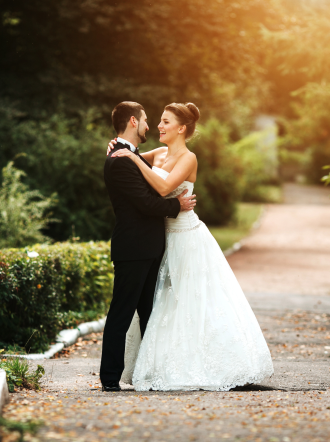
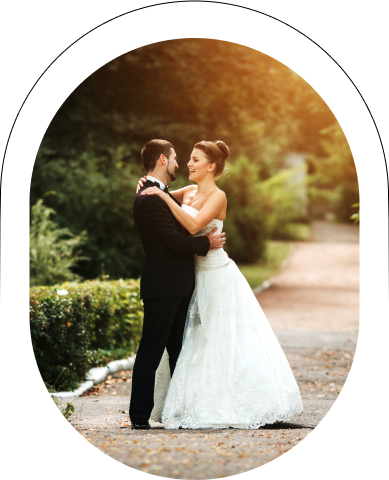
fix: image adjust for small screen

diff --git a/villa-santorini/styles.css b/villa-santorini/styles.css
@@ -127,21 +127,20 @@ div#home-collumns {
   display: flex;
   flex-direction: column;
   justify-content: space-around;
+  padding-bottom: 40px;
 }
 
 #left-bride {
-  width: 50%;
+  width: 20vh;
   border-radius: 150px 150px 0px 0px;
 }
 
 div#center-image {
-  border-top: 1px solid black;
   border-radius: 510px;
-  padding: 30px;
 }
 div#center-image > img {
   border-radius: 180px;
-  width: 100%;
+  width: 20vw;
 }
 #center {
   display: flex;
@@ -161,16 +160,14 @@ div#center-image > img {
 }
 
 h1#principal {
-  margin-top: 50px;
-  width: 100%;
-  font-size: 2.5vw;
+  font-size: 3.5vh;
   font-weight: 300;
 }
 
 #left-text {
   font-weight: 400;
   font-family: Harmattan;
-  font-size: 24px;
+  font-size: 3vh;
   font-weight: 400;
   line-height: 24px; /* 100% */
   letter-spacing: 1.2px;
@@ -184,10 +181,10 @@ div#buttons {
   border-radius: 15px;
   background: #000;
   color: white;
-  height: 50px;
+  height: fit-content;
   width: fit-content;
   padding: 10px 25px;
-  font-size: 110%;
+  font-size: 2vh;
   cursor: pointer;
   margin-bottom: 30px;
 }
@@ -207,17 +204,13 @@ div#buttons {
   position: relative;
 }
 
-#top {
-  width: 50%;
-}
-
 #top h5 {
   font-family: Roboto Flex;
   font-size: 20px;
   font-weight: 400;
   line-height: 24px;
   letter-spacing: 1px;
-  width: max-content;
+  width: fit-content;
 }
 
 #middle {
@@ -234,6 +227,10 @@ div#buttons {
   font-weight: 500;
   line-height: 24px; /* 120% */
   letter-spacing: 1px;
+}
+
+#space-villa {
+  width: 20vh;
 }
 #play-button {
   cursor: pointer;

diff --git a/villa-santorini/index.html b/villa-santorini/index.html
@@ -72,10 +72,10 @@
         <section id="right" class="tercially flex">
           <div id="top">
             <img src="img/logo-small.png" alt="logo">
-            <h5>Um casamento clássico com <br> um toque tropical no <br> Espaço Villa Santorini</h5>
+            <h5>Um casamento clássico com um toque tropical no Espaço Villa Santorini</h5>
           </div>
           <div id="middle">
-            <img src="img/espaco-vila.png" alt="espaco-vila">
+            <img src="img/espaco-vila.png" alt="espaco-vila" id="space-villa">
             <img src="img/play button.svg" alt="play" id="play-button">
             <p>Espaço Villa Santorini</p>
           </div>

diff --git a/index.html b/index.html
@@ -1,5 +1,5 @@
 <!DOCTYPE html>
-<html lang="en">
+<html lang="pt-BR">
 <head>
     <meta charset="UTF-8">
     <meta name="viewport" content="width=device-width, initial-scale=1.0">
